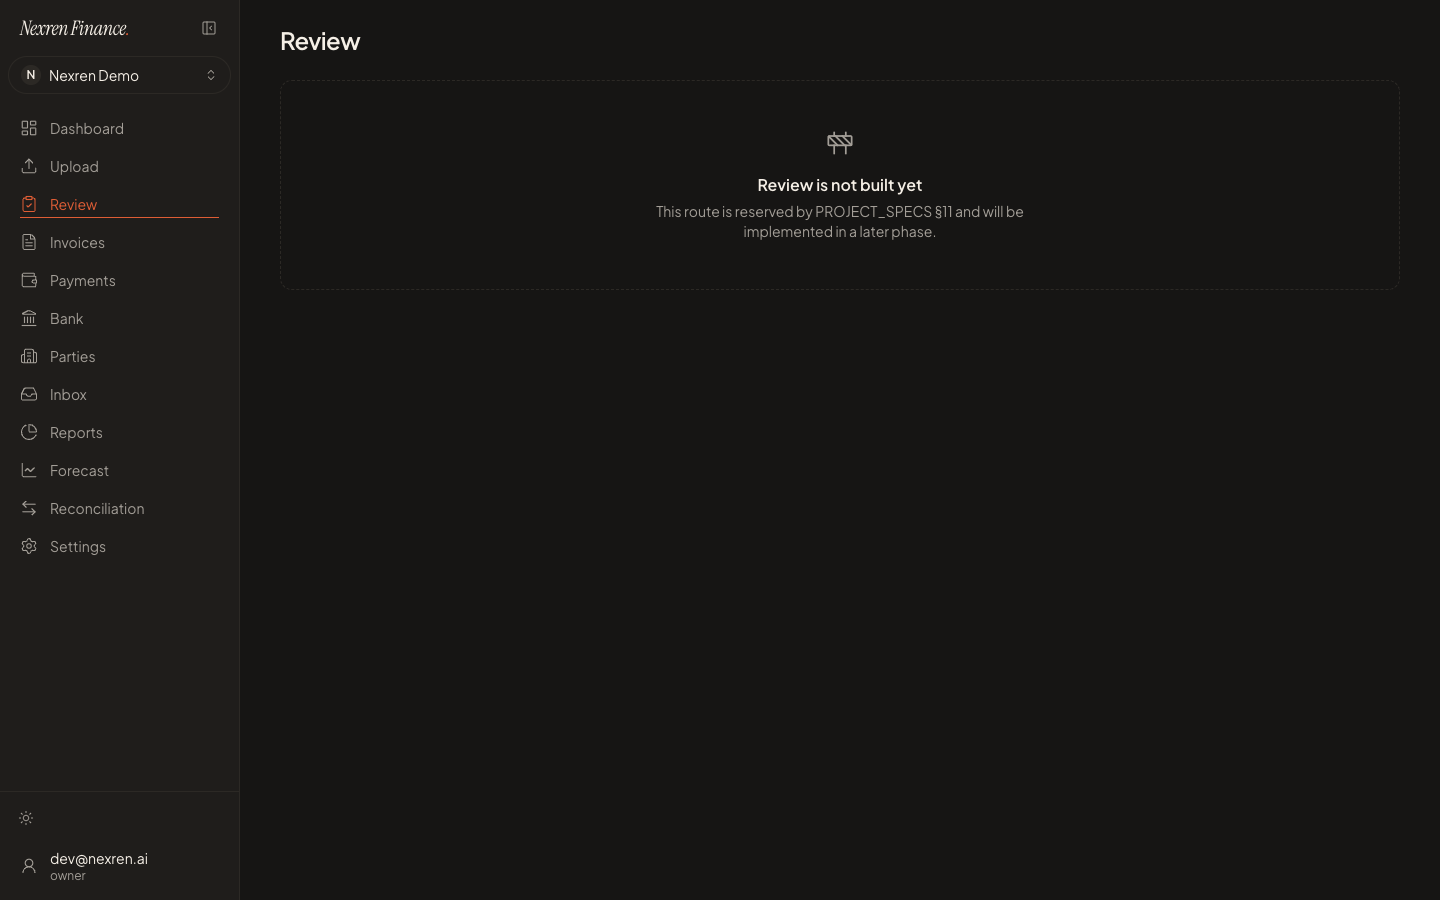
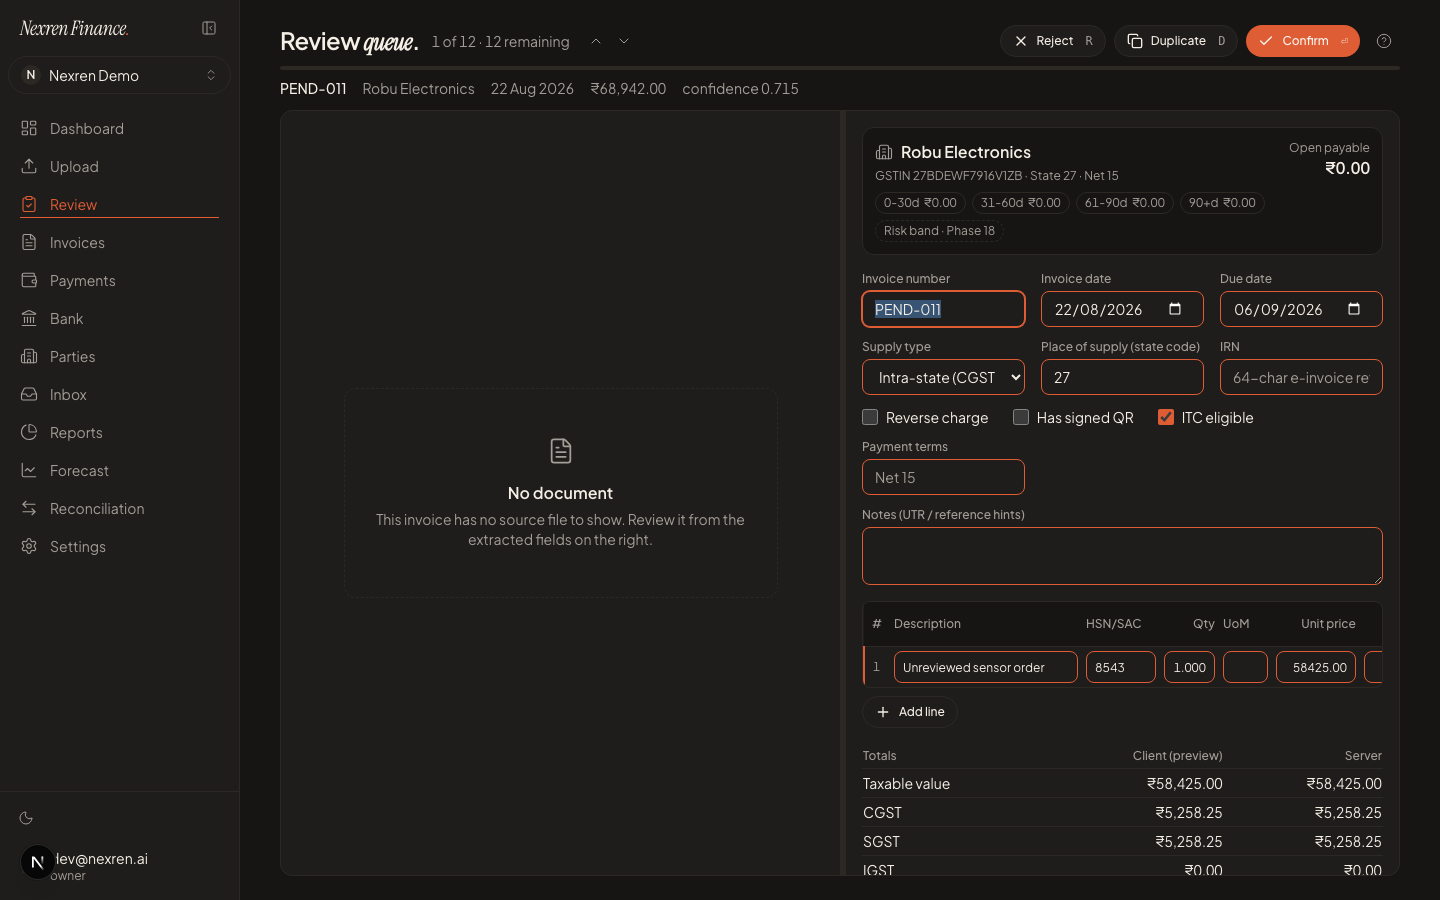
feat: invoice review screen (Phase 11)
PDF viewer with signed-URL refetch and a clean no-document state,
persisted split pane, queue progress, party card, low-confidence
focus, full keyboard map, optimistic advance with rollback, editable
lines with big.js recompute, server-vs-client difference strip,
inline issue resolve, 5 s autosave, confirm gate, viewer role gate.

diff --git a/frontend/components/review/no-document.test.tsx b/frontend/components/review/no-document.test.tsx
@@ -1,0 +1,41 @@
+import { render, screen } from "@testing-library/react";
+import { describe, expect, test, vi } from "vitest";
+import { ApiError } from "@/lib/api";
+import { isMissingPdfError } from "./no-document";
+
+vi.mock("@/lib/invoices", () => ({
+  useDocumentFile: (id: string | null) =>
+    id === null
+      ? { isPending: false, isError: false }
+      : { isPending: false, isError: true, error: new ApiError({ title: "Not Found", status: id === "gone" ? 404 : 500 }), refetch: vi.fn() },
+}));
+vi.mock("next/dynamic", () => ({ default: () => () => <div data-testid="pdf-viewer" /> }));
+
+import { PdfPane } from "./pdf-pane";
+
+describe("PdfPane", () => {
+  test("shows the clean No document state when the invoice has no document", () => {
+    render(<PdfPane documentId={null} />);
+    expect(screen.getByText("No document")).toBeInTheDocument();
+  });
+
+  test("shows the clean No document state when the signed-URL endpoint 404s", () => {
+    render(<PdfPane documentId="gone" />);
+    expect(screen.getByText("No document")).toBeInTheDocument();
+  });
+
+  test("other failures keep the retry state", () => {
+    render(<PdfPane documentId="broken" />);
+    expect(screen.getByText("Could not load the document")).toBeInTheDocument();
+    expect(screen.getByRole("button", { name: /retry/i })).toBeInTheDocument();
+  });
+});
+
+describe("isMissingPdfError", () => {
+  test("recognises pdf.js missing-file errors across versions", () => {
+    expect(isMissingPdfError(Object.assign(new Error("Missing PDF"), { name: "MissingPDFException" }))).toBe(true);
+    expect(isMissingPdfError(Object.assign(new Error("Unexpected server response (404)"), { status: 404, missing: true }))).toBe(true);
+    expect(isMissingPdfError(new Error("Invalid PDF structure"))).toBe(false);
+    expect(isMissingPdfError("nope")).toBe(false);
+  });
+});

diff --git a/frontend/components/review/pdf-viewer.tsx b/frontend/components/review/pdf-viewer.tsx
@@ -8,6 +8,7 @@ import { Document, Page, pdfjs } from "react-pdf";
 import { Button } from "@/components/ui/button";
 import { Skeleton } from "@/components/ui/skeleton";
 import { ICON_SIZE, ICON_STROKE } from "@/lib/constants";
+import { isMissingPdfError, NoDocument } from "./no-document";
 
 pdfjs.GlobalWorkerOptions.workerSrc = new URL("pdfjs-dist/build/pdf.worker.min.mjs", import.meta.url).toString();
 
@@ -26,6 +27,13 @@ export function PdfViewer({ url }: PdfViewerProps) {
   const [zoom, setZoom] = useState(1);
   const [pageCount, setPageCount] = useState(0);
   const [error, setError] = useState<string | null>(null);
+  const [isMissing, setIsMissing] = useState(false);
+
+  useEffect(() => {
+    setError(null);
+    setIsMissing(false);
+    setPageCount(0);
+  }, [url]);
 
   useEffect(() => {
     const node = containerRef.current;
@@ -40,6 +48,8 @@ export function PdfViewer({ url }: PdfViewerProps) {
   const step = useCallback((direction: 1 | -1) => {
     setZoom((current) => Math.min(ZOOM_MAX, Math.max(ZOOM_MIN, current + direction * ZOOM_STEP)));
   }, []);
+
+  if (isMissing) return <NoDocument />;
 
   return (
     <div className="flex h-full flex-col">
@@ -65,7 +75,7 @@ export function PdfViewer({ url }: PdfViewerProps) {
             file={url}
             loading={<Skeleton className="h-[60vh] w-full" />}
             onLoadSuccess={(pdf) => setPageCount(pdf.numPages)}
-            onLoadError={(loadError) => setError(`Could not render the PDF: ${loadError.message}`)}
+            onLoadError={(loadError) => (isMissingPdfError(loadError) ? setIsMissing(true) : setError(`Could not render the PDF: ${loadError.message}`))}
           >
             {width > 0 &&
               Array.from({ length: pageCount }, (_, index) => (

diff --git a/frontend/components/review/pdf-pane.tsx b/frontend/components/review/pdf-pane.tsx
@@ -5,12 +5,16 @@ import dynamic from "next/dynamic";
 import { EmptyState } from "@/components/primitives/empty-state";
 import { Button } from "@/components/ui/button";
 import { Skeleton } from "@/components/ui/skeleton";
+import { ApiError } from "@/lib/api";
 import { useDocumentFile } from "@/lib/invoices";
+import { NoDocument } from "./no-document";
 
 const PdfViewer = dynamic(() => import("./pdf-viewer").then((module) => module.PdfViewer), {
   ssr: false,
   loading: () => <Skeleton className="m-3 h-[60vh]" />,
 });
+
+const HTTP_NOT_FOUND = 404;
 
 export interface PdfPaneProps {
   documentId: string | null;
@@ -20,14 +24,9 @@ export interface PdfPaneProps {
 export function PdfPane({ documentId }: PdfPaneProps) {
   const file = useDocumentFile(documentId);
 
-  if (documentId === null) {
-    return (
-      <div className="flex h-full items-center justify-center p-6">
-        <EmptyState icon={FileText} title="No source document" description="This invoice has no attached file, so there is nothing to render on this side." />
-      </div>
-    );
-  }
+  if (documentId === null) return <NoDocument />;
   if (file.isPending) return <Skeleton className="m-3 h-[60vh]" />;
+  if (file.isError && file.error instanceof ApiError && file.error.status === HTTP_NOT_FOUND) return <NoDocument />;
   if (file.isError) {
     return (
       <div className="flex h-full items-center justify-center p-6">

diff --git a/frontend/components/review/no-document.tsx b/frontend/components/review/no-document.tsx
@@ -1,0 +1,22 @@
+"use client";
+
+import { FileText } from "lucide-react";
+import { EmptyState } from "@/components/primitives/empty-state";
+
+/** Left pane when there is nothing to render: no document row, or the stored file is gone (404). */
+export function NoDocument() {
+  return (
+    <div className="flex h-full items-center justify-center p-6">
+      <EmptyState icon={FileText} title="No document" description="This invoice has no source file to show. Review it from the extracted fields on the right." />
+    </div>
+  );
+}
+
+const MISSING_RE = /missing|not found|404/i;
+
+/** pdf.js reports a 404 as MissingPDFException (v4) or a ResponseException with missing=true (v5). */
+export function isMissingPdfError(error: unknown): boolean {
+  if (!(error instanceof Error)) return false;
+  const withFlags = error as Error & { missing?: boolean; status?: number };
+  return error.name === "MissingPDFException" || withFlags.missing === true || withFlags.status === 404 || MISSING_RE.test(error.message);
+}

diff --git a/frontend/components/review/line-table.tsx b/frontend/components/review/line-table.tsx
@@ -54,7 +54,7 @@ export function LineTable({ lines, computed, supplyType, issues, onChange, onAdd
   return (
     <section aria-label="Line items" className="space-y-2">
       <div className="overflow-x-auto rounded-md border border-border">
-        <table className="w-full text-xs">
+        <table className="w-full min-w-[64rem] text-xs">
           <thead className="bg-background text-left text-muted">
             <tr>
               <th className="px-2 py-1.5 font-medium">#</th>
